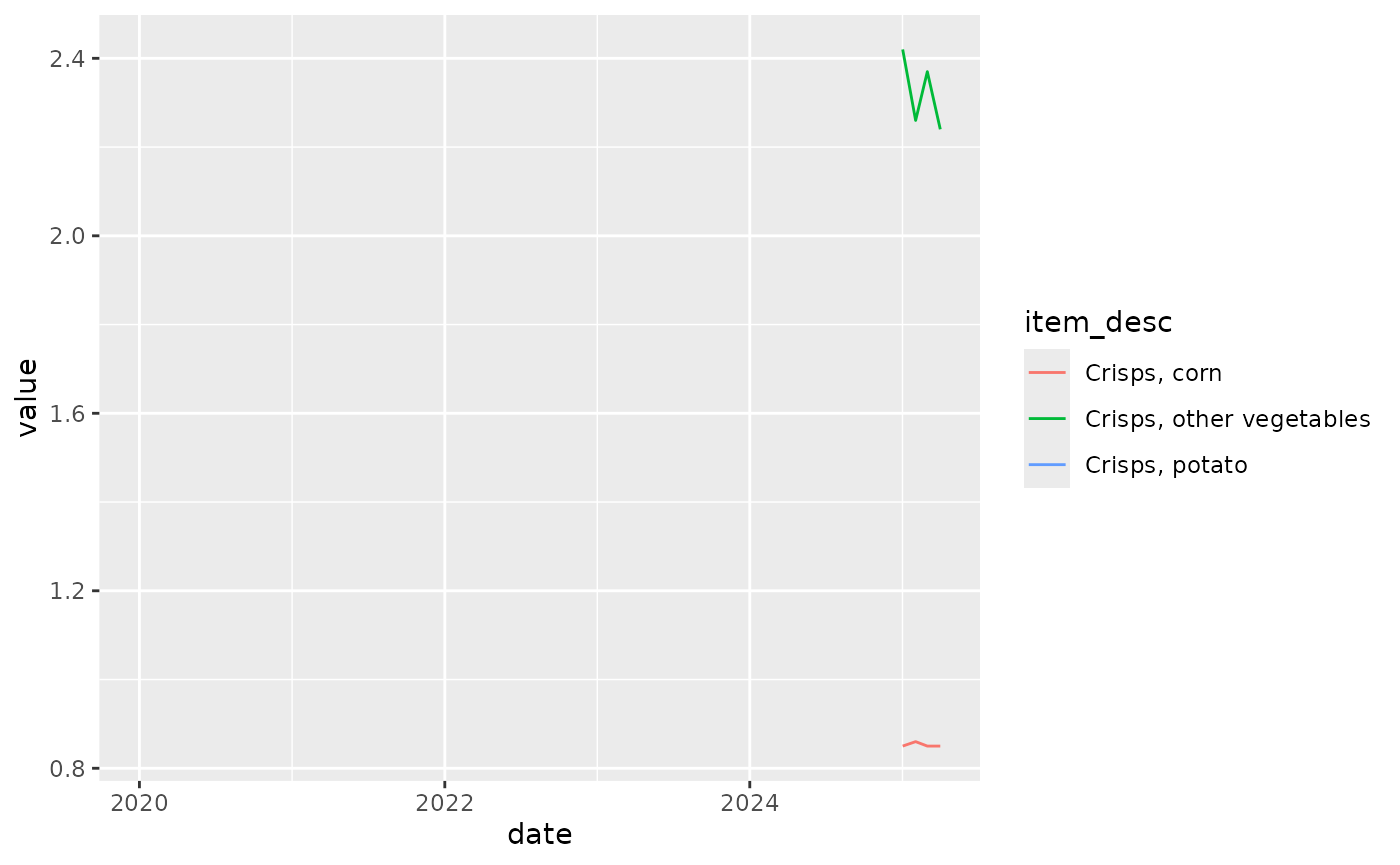
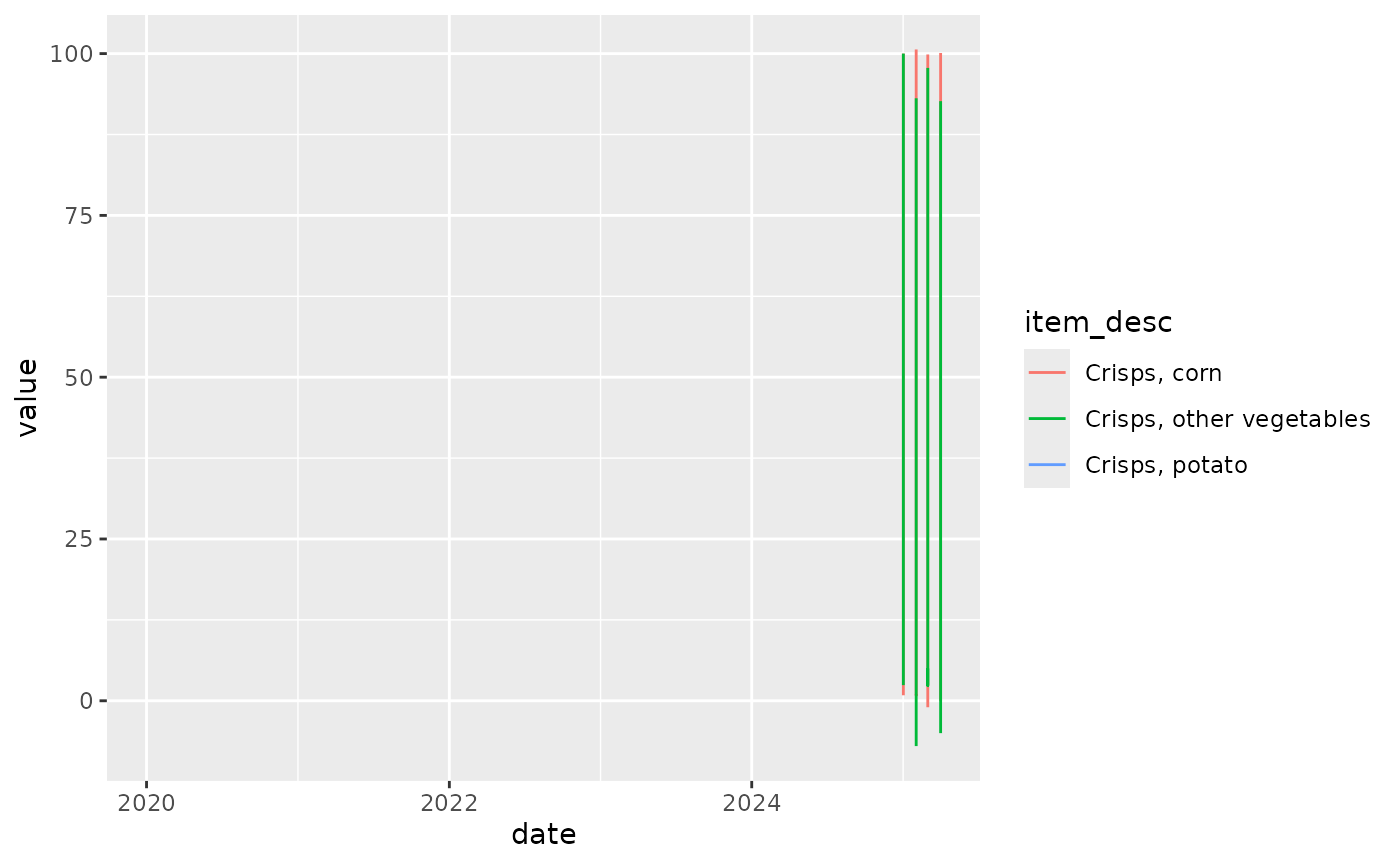
Deploying to gh-pages from @ FoodchainStats/mm23@812dce27de273e07ef8acae0c5f2d4d0d69a53c2 🚀

diff --git a/articles/prices.html b/articles/prices.html
@@ -84,9 +84,9 @@ specify where you want to put it. <code><a href="../reference/acquire_prices.htm
 <span></span>
 <span><span class="co"># Puts the data in a temporary file and returns its name</span></span>
 <span><span class="va">prices</span> <span class="op">&lt;-</span> <span class="fu"><a href="../reference/acquire_prices.html">acquire_prices</a></span><span class="op">(</span><span class="op">)</span></span>
-<span><span class="co">#&gt; Acquiring file36c4598ebc2a</span></span>
+<span><span class="co">#&gt; Acquiring file37b243981d2</span></span>
 <span><span class="va">prices</span></span>
-<span><span class="co">#&gt; [1] "/tmp/RtmpXokyAi/file36c4598ebc2a"</span></span>
+<span><span class="co">#&gt; [1] "/tmp/RtmpZBJNKb/file37b243981d2"</span></span>
 <span></span>
 <span><span class="co"># Or specify a location</span></span>
 <span><span class="co"># prices &lt;- acquire_prices("~/data")</span></span>
@@ -157,7 +157,7 @@ random record. Join metadata to data with <code>item_id</code>.</p>
 <span>  <span class="fu">dplyr</span><span class="fu">::</span><span class="fu"><a href="https://dplyr.tidyverse.org/reference/mutate-joins.html" class="external-link">left_join</a></span><span class="op">(</span><span class="fu"><a href="../reference/get_price_metadata.html">get_price_metadata</a></span><span class="op">(</span><span class="va">prices</span><span class="op">)</span><span class="op">)</span> <span class="op">|&gt;</span> </span>
 <span>  <span class="fu">ggplot2</span><span class="fu">::</span><span class="fu"><a href="https://ggplot2.tidyverse.org/reference/ggplot.html" class="external-link">ggplot</a></span><span class="op">(</span><span class="op">)</span> <span class="op">+</span></span>
 <span>  <span class="fu">ggplot2</span><span class="fu">::</span><span class="fu"><a href="https://ggplot2.tidyverse.org/reference/geom_path.html" class="external-link">geom_line</a></span><span class="op">(</span><span class="fu">ggplot2</span><span class="fu">::</span><span class="fu"><a href="https://ggplot2.tidyverse.org/reference/aes.html" class="external-link">aes</a></span><span class="op">(</span>x <span class="op">=</span> <span class="va">date</span>, y <span class="op">=</span> <span class="va">value</span>, colour <span class="op">=</span> <span class="va">item_desc</span><span class="op">)</span><span class="op">)</span></span>
-<span><span class="co">#&gt; Warning: Removed 184 rows containing missing values or values outside the scale range</span></span>
+<span><span class="co">#&gt; Warning: Removed 723 rows containing missing values or values outside the scale range</span></span>
 <span><span class="co">#&gt; (`geom_line()`).</span></span></code></pre></div>
 <p><img src="prices_files/figure-html/unnamed-chunk-3-1.png" width="700"></p>
 </div>

diff --git a/articles/mm23.html b/articles/mm23.html
@@ -80,9 +80,9 @@ specify a folder where you want to put it.</p>
 <span></span>
 <span><span class="co"># Puts the data in a temporary file and returns its name</span></span>
 <span><span class="va">mm23</span> <span class="op">&lt;-</span> <span class="fu"><a href="../reference/acquire_mm23.html">acquire_mm23</a></span><span class="op">(</span><span class="op">)</span></span>
-<span><span class="co">#&gt; Acquiring file1fd43643bfb7</span></span>
+<span><span class="co">#&gt; Acquiring file20b47afbf2ce</span></span>
 <span><span class="va">mm23</span></span>
-<span><span class="co">#&gt; [1] "/tmp/RtmpEQi4Fz/file1fd43643bfb7"</span></span>
+<span><span class="co">#&gt; [1] "/tmp/Rtmp45s0oI/file20b47afbf2ce"</span></span>
 <span></span>
 <span><span class="co"># Or specify a location</span></span>
 <span><span class="co"># mm23 &lt;- acquire_mm23("~/data")</span></span>
